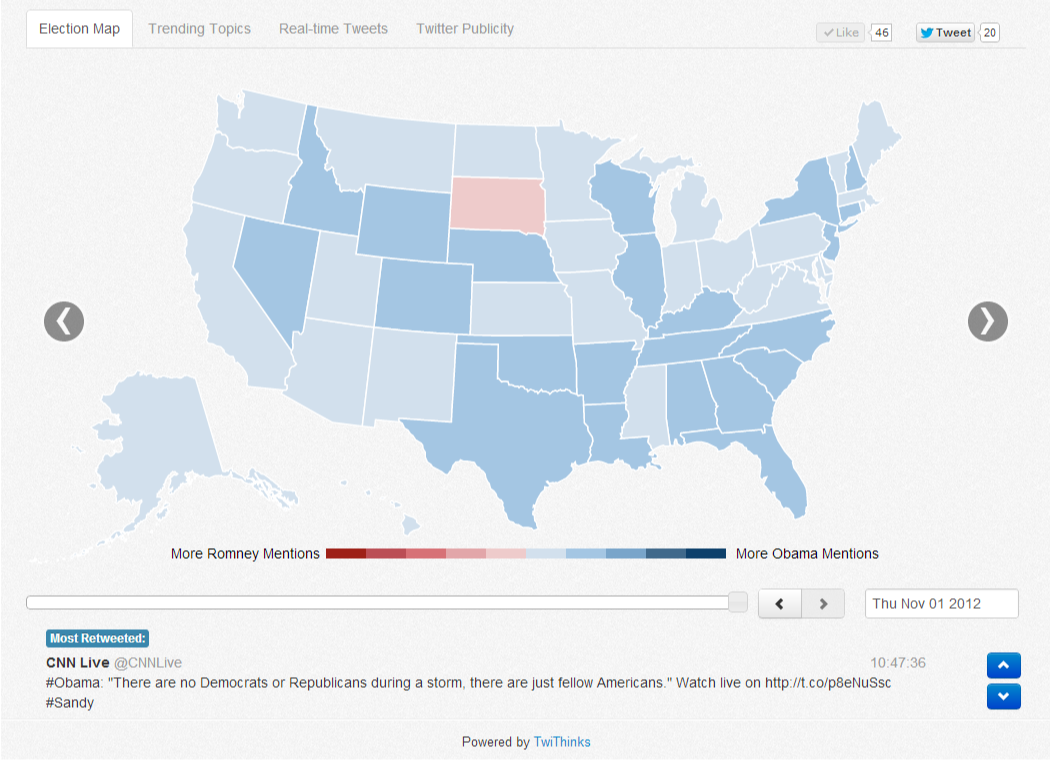
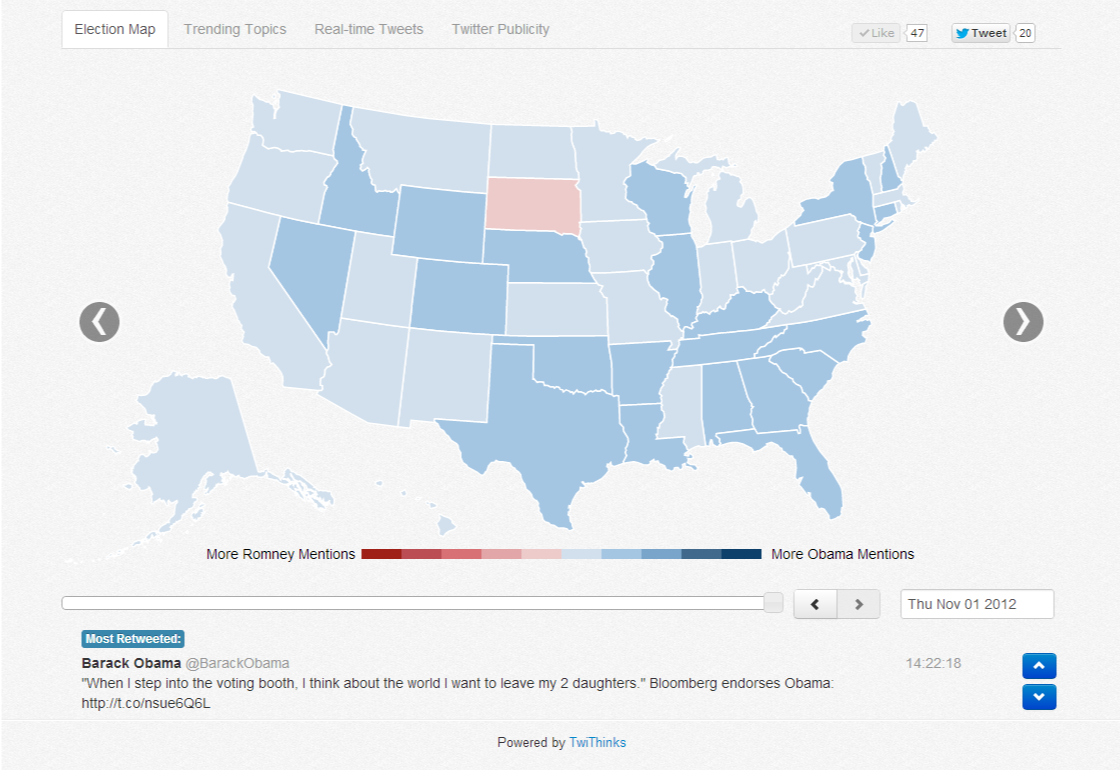
1120x770 snapshot for IE.

diff --git a/WebContent/templates/test.html b/WebContent/templates/test.html
@@ -10,6 +10,6 @@
 	</head>
 	<body>
 		<h1>Iframe testing page</h1>
-		<iframe frameborder="0" width="1050" height="760" src="{{ url_for('frame') }}" />
+		<iframe frameborder="0" width="1120" height="770" src="{{ url_for('frame') }}" />
 	</body>
 </html>

diff --git a/WebContent/templates/frame.html b/WebContent/templates/frame.html
@@ -49,8 +49,8 @@
 	
 	<style>
 		body {
-			width: 1050px;
-			height: 760px;
+			width: 1120px;
+			height: 770px;
 			overflow: hidden;
 		}
 		
